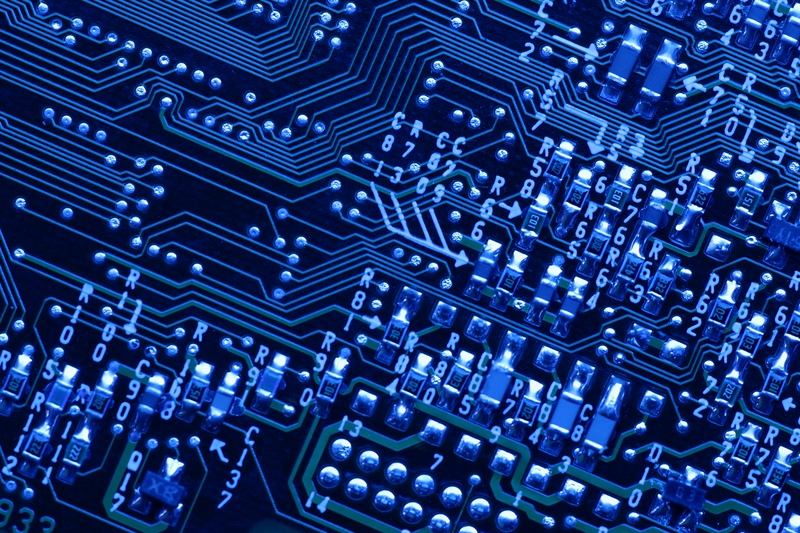
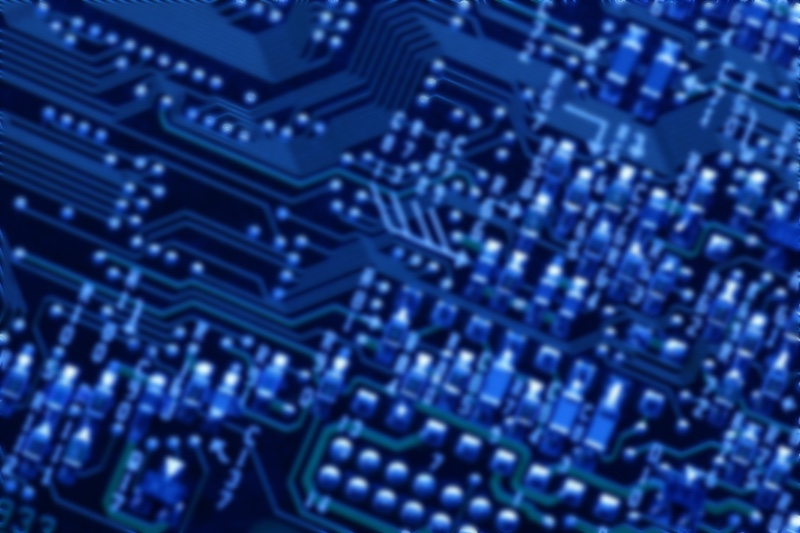
blurred the background prior

diff --git a/index.html b/index.html
@@ -9,7 +9,7 @@ title: Bryce Mueller | Home Page
             <!--<div class="col-md-4" id="profilePic" >-->
                 <!--<img class="profilePic img-responsive" src="assets/Profile-pic-small.jpeg" alt="Profile image">-->
             <!--</div>-->
-            <div class="col-md-10 col-md-offset-1" id="intro">
+            <div class="col-md-10 col-md-offset-1">
             <h3>Hello and welcome to my website.</h3>
             <p>I created brycemueller.com to not only let you know more about me, but also to sharpen my skills as a Software Engineer. I love learning new things. So I thought, "Hey, what if I could build a website all by myself and learn new things along the way!" So here it is in all her glory!</p>
             <p>I have an about page if you want to read more about myself and my story. You'll also find a contact page above in the menu bar if you would like to contact myself for any reason. </p>

diff --git a/css/custom_styles.css b/css/custom_styles.css
@@ -39,26 +39,9 @@ hr {
 
 #splash {
     background-image: url("../assets/chip-background.jpg");
-    background-color: #0f0f0f;
-    -webkit-filter: blur(3px); /* Chrome, Safari, Opera */
-    filter: blur(3px);
+    background-color: #f7f7f7;
     background-repeat: no-repeat;
     background-size: cover;
-    position:absolute;
-    width:100%;
-    height:100%;
-}
-
-#intro {
-    color: #ffffff;
-    position:relative;
-    position:absolute;
-    z-index:9999;
-    -webkit-filter: blur(0px);
-    -moz-filter: blur(0px);
-    -o-filter: blur(0px);
-    -ms-filter: blur(13px);
-    filter: blur(0px);
 }
 
 /*.ui.segment.backgroundEd {*/
